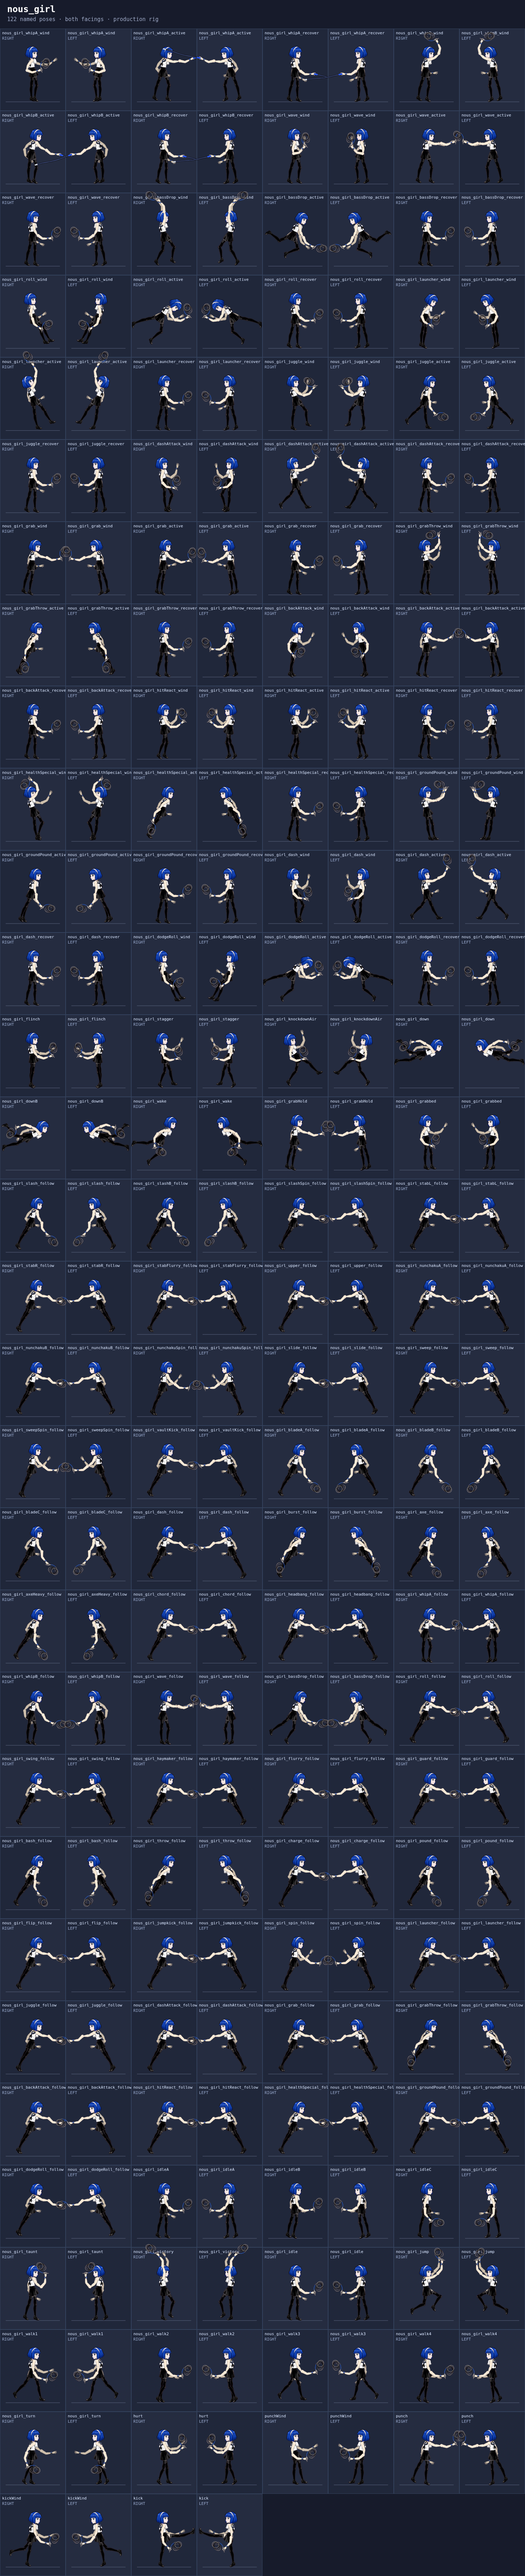
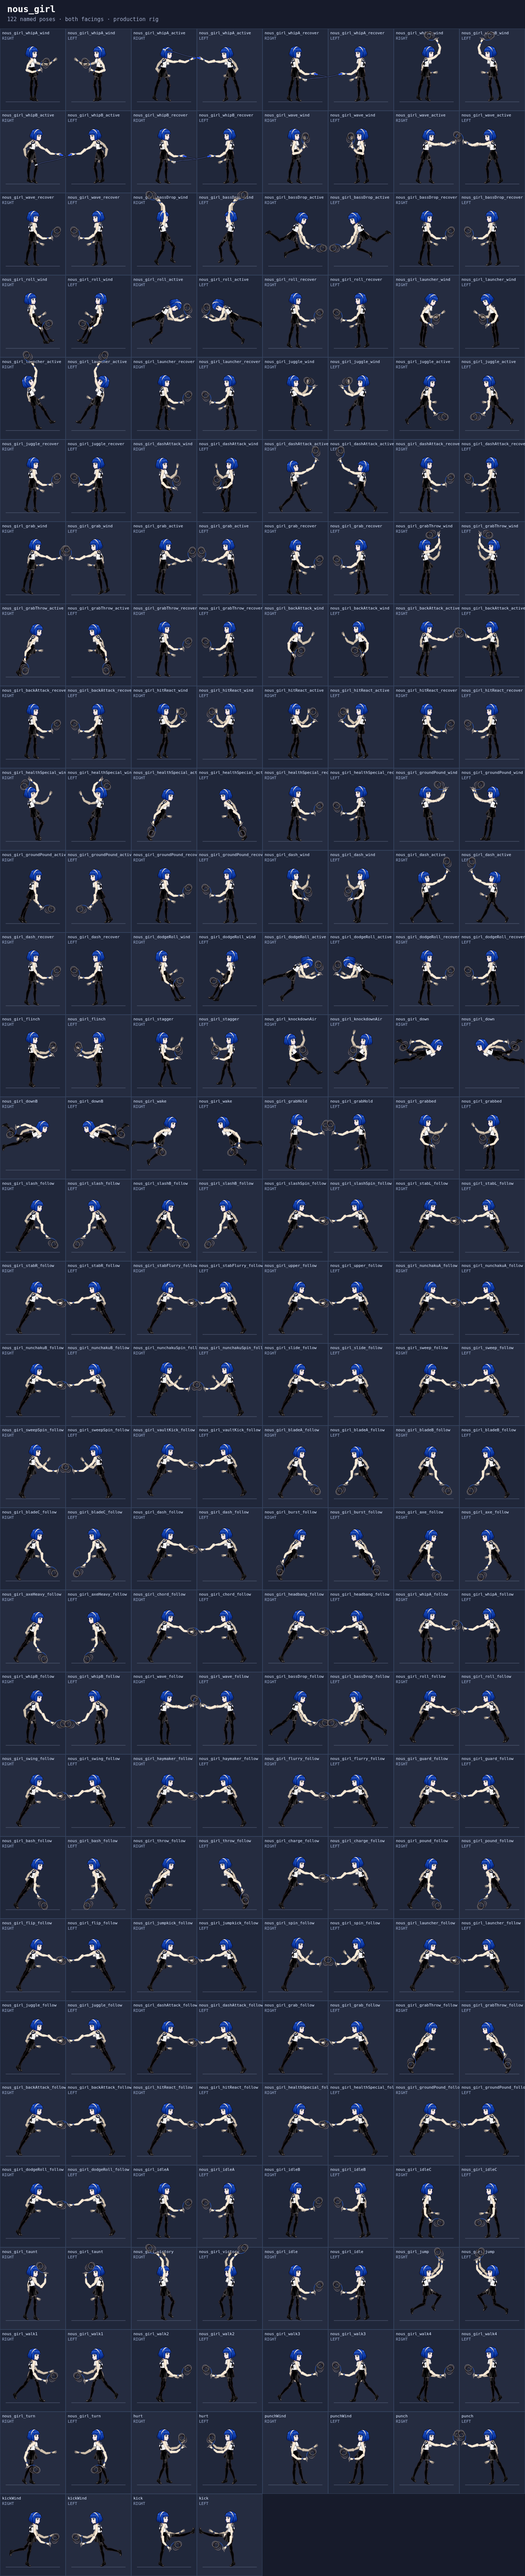
test: capture gameplay-grounded baselines from pristine original revision

diff --git a/tools/rig-sheet.js b/tools/rig-sheet.js
@@ -1,4 +1,4 @@
-import { createRig, POSES, HEROES, HERO_MOVES, MECHANICS, REACTIONS } from '../rig.js';
+import { createRig, POSES, HEROES, HERO_MOVES, MECHANICS, REACTIONS, FOOT_Y } from '../rig.js';
 import '../don.js';
 import { HERO_RIGS } from '../hero-rigs.js';
 
@@ -7,14 +7,19 @@ const ctx = c.getContext('2d');
 const rig = createRig();
 const query = new URLSearchParams(location.search);
 const hero = query.get('hero');
-const common = ['idle', 'idleA', 'idleB', 'idleC', 'walk1', 'walk2', 'walk3', 'walk4', 'run', 'turn', 'jump', 'hurt', 'taunt', 'victory', 'punchWind', 'punch', 'kickWind', 'kick'];
+const common = ['idle', 'idleA', 'idleB', 'idleC', 'walk1', 'walk2', 'walk3', 'walk4', 'run1', 'run2', 'run3', 'run4', 'turn', 'jump', 'hurt', 'taunt', 'victory', 'punchWind', 'punch', 'kickWind', 'kick'];
 const states = [...new Set([...REACTIONS, 'knockdownAir', 'down', 'downB', 'wake'])];
 const heroMoves = Object.keys(HERO_MOVES[hero] || {});
 const requested = [...common, ...states, ...heroMoves.flatMap(m => ['wind', 'active', 'recover', 'follow'].map(phase => `${m}_${phase}`)), ...MECHANICS.flatMap(m => ['wind', 'active', 'recover', 'follow'].map(phase => `${m}_${phase}`))];
 const absent = [...new Set(requested.filter(p => !POSES[`${hero}_${p}`] && !POSES[p]).map(p => `${hero}_${p}`))];
 const sharedFallbacks = [...new Set(requested.filter(p => !POSES[`${hero}_${p}`] && POSES[p]).map(p => ({ requested: `${hero}_${p}`, drawn: p })))];
 const poses = [...Object.keys(POSES).filter(p => p.startsWith(`${hero}_`)), ...requested.filter(p => !POSES[`${hero}_${p}`] && POSES[p])];
-const unique = [...new Set(poses)];
+let unique = [...new Set(poses)];
+if (query.get('mode') === 'after') {
+  // Preserve baseline cell positions when new run/reaction drawings are added.
+  const baseline = (await (await fetch('../before/manifest.json')).json()).find(e => e.hero === hero);
+  unique = [...baseline.poses, ...unique.filter(name => !baseline.poses.includes(name))];
+}
 const missing = unique.filter(p => !Object.hasOwn(POSES, p));
 const cols = 8, cellW = 184, cellH = 230, header = 80;
 c.width = cols * cellW;
@@ -48,7 +53,9 @@ if (missing.length || failures.length || !HEROES.includes(hero)) {
     ctx.fillText(pose.length > 27 ? pose.slice(0, 27) : pose, x + 6, y + 16);
     ctx.fillStyle = '#99aace'; ctx.fillText(side ? 'LEFT' : 'RIGHT', x + 6, y + 31);
     ctx.strokeStyle = '#5d6780'; ctx.beginPath(); ctx.moveTo(x + 16, y + 205); ctx.lineTo(x + cellW - 16, y + 205); ctx.stroke();
-    if (!rig.draw(ctx, hero, pose, x + cellW / 2, y + 108, !!side, .85)) failures.push(`draw failed: ${hero} ${pose}`);
+    const phase = /_active$/.test(pose) ? 'active' : /_wind$/.test(pose) ? 'wind' : /_recover$/.test(pose) ? 'rec' : null;
+    const drawing = { ...POSES[pose], __pose: pose, __phase: phase, __pt: 1 / 60 };
+    if (!rig.draw(ctx, hero, drawing, x + cellW / 2, y + 205 - FOOT_Y * .85, !!side, .85)) failures.push(`draw failed: ${hero} ${pose}`);
   }
-  window.__rigSheet = failures.length ? { error: { hero, missing, failures } } : { hero, poses: unique, absent, sharedFallbacks, facings: ['right', 'left'], assets: files, width: c.width, height: c.height, png: c.toDataURL('image/png') };
+  window.__rigSheet = failures.length ? { error: { hero, missing, failures } } : { hero, captureMode: 'production animated pose', poses: unique, absent, sharedFallbacks, facings: ['right', 'left'], assets: files, width: c.width, height: c.height, png: c.toDataURL('image/png') };
 }
